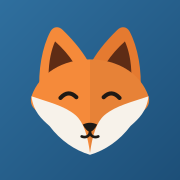
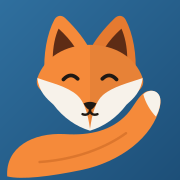
Icona: volpe con la coda avvolta
Claude-Session: https://claude.ai/code/session_013dLk7mtwF1g8L48ERuyka1

diff --git a/index.html b/index.html
@@ -31,7 +31,7 @@
 </head>
 <body>
 <div class="c">
-  <div class="logo"><svg width="100%" height="100%" xmlns="http://www.w3.org/2000/svg" viewBox="0 0 100 100"><defs><linearGradient id="g" x1="0" y1="0" x2="1" y2="1"><stop offset="0" stop-color="#2f6f9e"/><stop offset="1" stop-color="#1d4f78"/></linearGradient></defs><rect width="100" height="100" rx="24" fill="url(#g)"/><g transform="translate(0 2)"><path d="M22 50 C21 37 23.5 24 28 15.5 C29.6 12.6 32.6 12.4 34.8 14.6 C41.8 21.4 47 28 50.5 35Z" fill="#f58a3a"/><path d="M78 50 C79 37 76.5 24 72 15.5 C70.4 12.6 67.4 12.4 65.2 14.6 C58.2 21.4 53 28 49.5 35Z" fill="#e57a30"/><path d="M27 40 C27 32 28.6 25.4 30.6 21 C34.6 24.6 38.2 28.6 41 33Z" fill="#5e2c15"/><path d="M73 40 C73 32 71.4 25.4 69.4 21 C65.4 24.6 61.8 28.6 59 33Z" fill="#5e2c15"/><path d="M50 31 C65 31 78 38.5 82.5 51.5 C84 56.5 80.5 60 75.5 61.5 C70 71.5 60.5 80 50 83 C39.5 80 30 71.5 24.5 61.5 C19.5 60 16 56.5 17.5 51.5 C22 38.5 35 31 50 31Z" fill="#f58a3a"/><path d="M50 31 C65 31 78 38.5 82.5 51.5 C84 56.5 80.5 60 75.5 61.5 C70 71.5 60.5 80 50 83Z" fill="#000" opacity=".06"/><path d="M17.5 51.5 C26 54.5 35.5 56.5 42 62 C46.5 66 48.6 73 50 83 C51.4 73 53.5 66 58 62 C64.5 56.5 74 54.5 82.5 51.5 C81.5 60 77 64 72.5 68 C66.5 76 58.5 81.5 50 84 C41.5 81.5 33.5 76 27.5 68 C23 64 18.5 60 17.5 51.5Z" fill="#f7f2ea"/><path d="M33.6 52.4 Q38 47.6 42.4 52" fill="none" stroke="#1f1914" stroke-width="2.3" stroke-linecap="round"/><path d="M66.4 52.4 Q62 47.6 57.6 52" fill="none" stroke="#1f1914" stroke-width="2.3" stroke-linecap="round"/><path d="M46 67.2 Q50 65.2 54 67.2 Q52 71 50 71.2 Q48 71 46 67.2Z" fill="#1f1914"/><path d="M50 71.2 C50 73.6 47.6 74.8 45.4 73.8 M50 71.2 C50 73.6 52.4 74.8 54.6 73.8" fill="none" stroke="#1f1914" stroke-width="1.5" stroke-linecap="round"/></g></svg></div>
+  <div class="logo"><svg width="100%" height="100%" xmlns="http://www.w3.org/2000/svg" viewBox="0 0 100 100"><defs><linearGradient id="g" x1="0" y1="0" x2="1" y2="1"><stop offset="0" stop-color="#2f6f9e"/><stop offset="1" stop-color="#1d4f78"/></linearGradient></defs><rect width="100" height="100" rx="24" fill="url(#g)"/><clipPath id="c"><rect width="100" height="100" rx="24"/></clipPath><g clip-path="url(#c)"><g transform="translate(5 -3) scale(.9)"><path d="M22 50 C21 37 23.5 24 28 15.5 C29.6 12.6 32.6 12.4 34.8 14.6 C41.8 21.4 47 28 50.5 35Z" fill="#f58a3a"/><path d="M78 50 C79 37 76.5 24 72 15.5 C70.4 12.6 67.4 12.4 65.2 14.6 C58.2 21.4 53 28 49.5 35Z" fill="#e57a30"/><path d="M27 40 C27 32 28.6 25.4 30.6 21 C34.6 24.6 38.2 28.6 41 33Z" fill="#5e2c15"/><path d="M73 40 C73 32 71.4 25.4 69.4 21 C65.4 24.6 61.8 28.6 59 33Z" fill="#5e2c15"/><path d="M50 31 C65 31 78 38.5 82.5 51.5 C84 56.5 80.5 60 75.5 61.5 C70 71.5 60.5 80 50 83 C39.5 80 30 71.5 24.5 61.5 C19.5 60 16 56.5 17.5 51.5 C22 38.5 35 31 50 31Z" fill="#f58a3a"/><path d="M50 31 C65 31 78 38.5 82.5 51.5 C84 56.5 80.5 60 75.5 61.5 C70 71.5 60.5 80 50 83Z" fill="#000" opacity=".06"/><path d="M17.5 51.5 C26 54.5 35.5 56.5 42 62 C46.5 66 48.6 73 50 83 C51.4 73 53.5 66 58 62 C64.5 56.5 74 54.5 82.5 51.5 C81.5 60 77 64 72.5 68 C66.5 76 58.5 81.5 50 84 C41.5 81.5 33.5 76 27.5 68 C23 64 18.5 60 17.5 51.5Z" fill="#f7f2ea"/><path d="M33.6 52.4 Q38 47.6 42.4 52" fill="none" stroke="#1f1914" stroke-width="2.3" stroke-linecap="round"/><path d="M66.4 52.4 Q62 47.6 57.6 52" fill="none" stroke="#1f1914" stroke-width="2.3" stroke-linecap="round"/><path d="M46 67.2 Q50 65.2 54 67.2 Q52 71 50 71.2 Q48 71 46 67.2Z" fill="#1f1914"/><path d="M50 71.2 C50 73.6 47.6 74.8 45.4 73.8 M50 71.2 C50 73.6 52.4 74.8 54.6 73.8" fill="none" stroke="#1f1914" stroke-width="1.5" stroke-linecap="round"/></g><path d="M4 98 C3 82 18 73.5 36 74.5 C50 75.4 62 72.6 70.5 63.5 C74.6 59 76.6 53.6 80.6 51.2 C86 48.6 90.6 52.6 88.8 59.4 C85 76 67 90 45 94.5 C28 98 12 100 4 98Z" fill="#f58a3a"/><path d="M22 90 C38 89 56 84 70 74" fill="none" stroke="#c4621f" stroke-width="1.4" stroke-linecap="round" opacity=".5"/><path d="M79.6 52.4 C82.6 49.4 88 49.6 89 54.6 C89.4 58 88.4 61.6 86.6 64.8 C83.4 61.4 80.8 57 79.6 52.4Z" fill="#f7f2ea"/></g></svg></div>
   <h1>Pisi</h1>
   <p>La tua agenda con la volpina.<br>Installala per averla tra le tue app.</p>
   <button class="btn main" id="install">Installa Pisi</button>

diff --git a/sw.js b/sw.js
@@ -1,5 +1,5 @@
 // Minimal service worker so Chrome offers "Installa app".
-const CACHE = 'pisi-v4';
+const CACHE = 'pisi-v5';
 const FILES = ['./', './index.html', './manifest.webmanifest', './icon-192.png', './icon-512.png'];
 self.addEventListener('install', e => { e.waitUntil(caches.open(CACHE).then(c => c.addAll(FILES))); self.skipWaiting(); });
 self.addEventListener('activate', e => { e.waitUntil(self.clients.claim()); });
